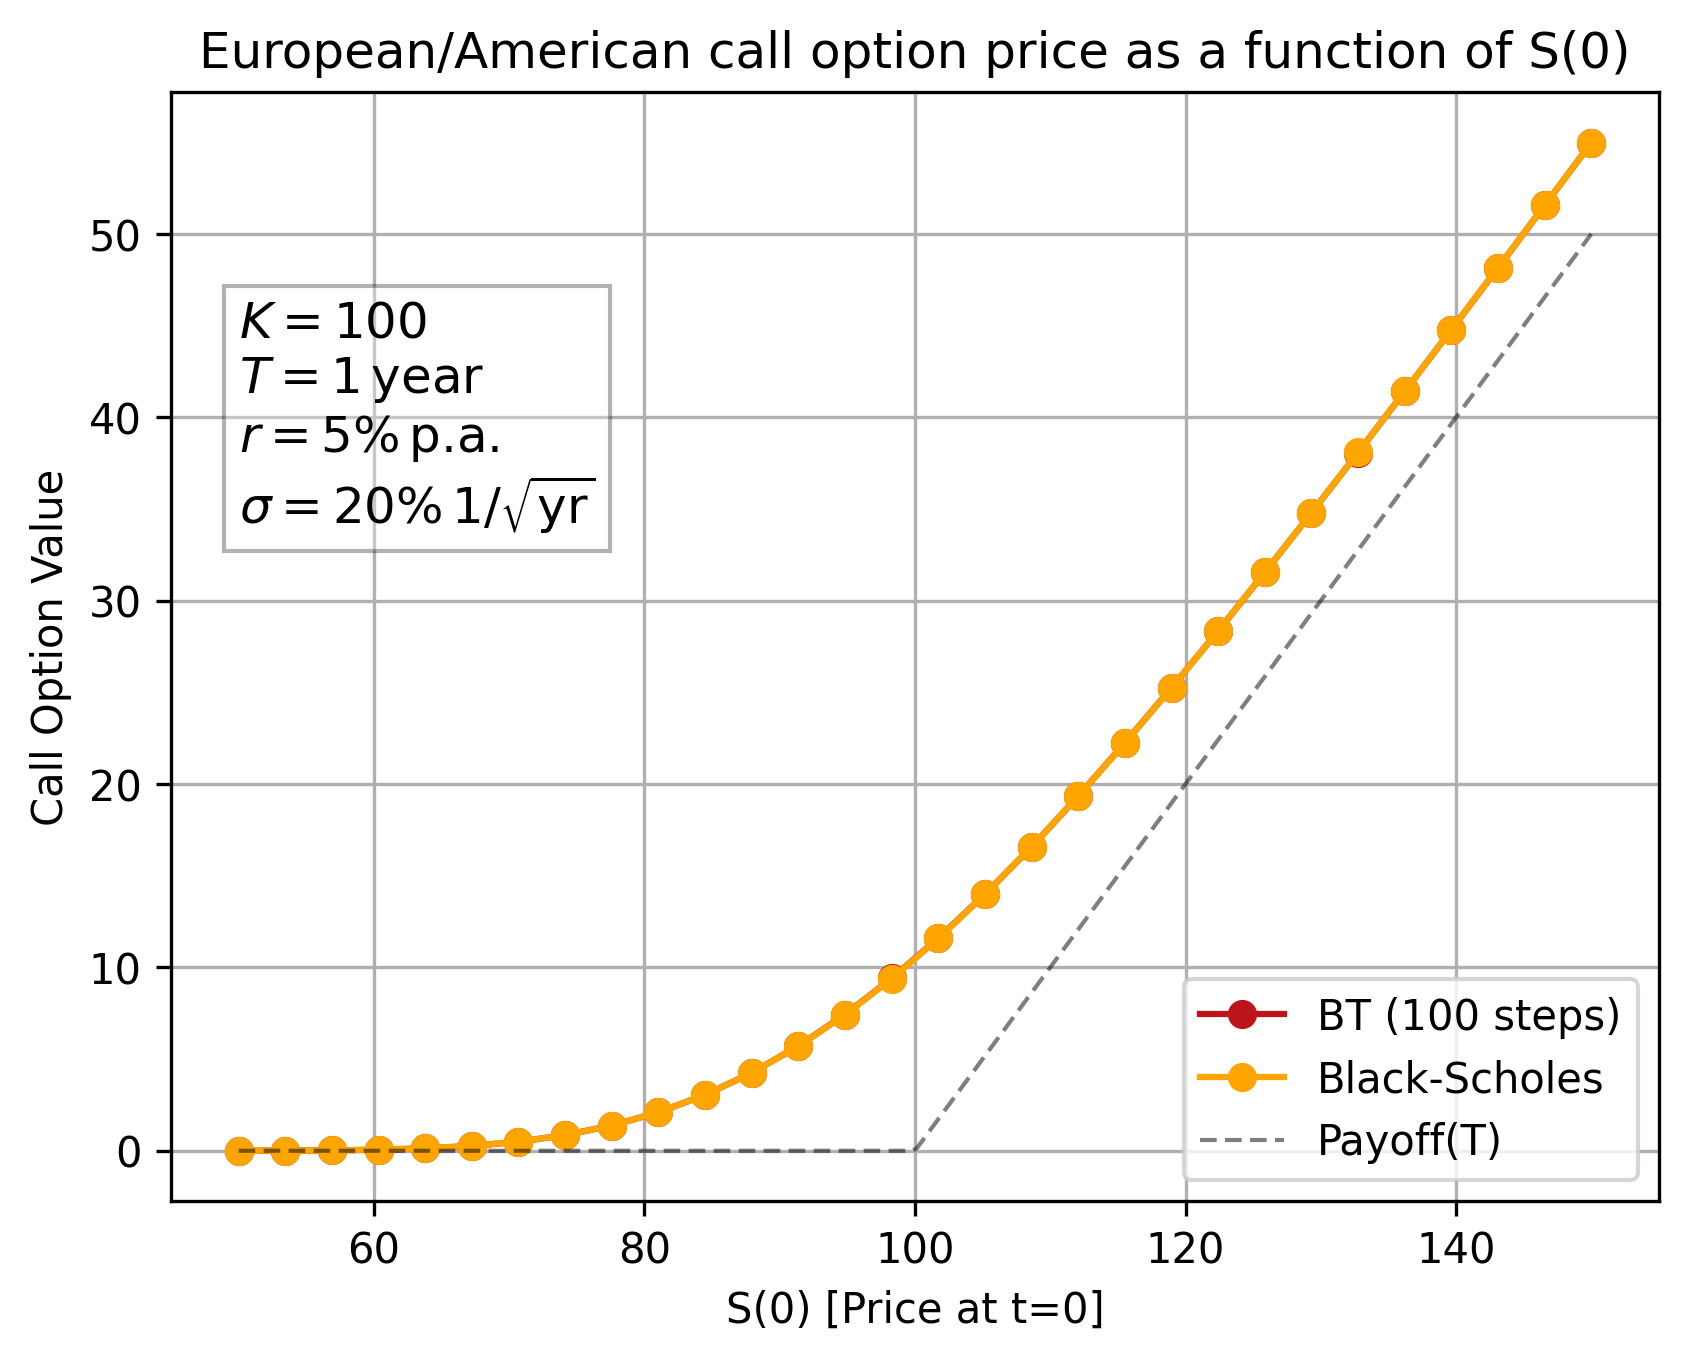
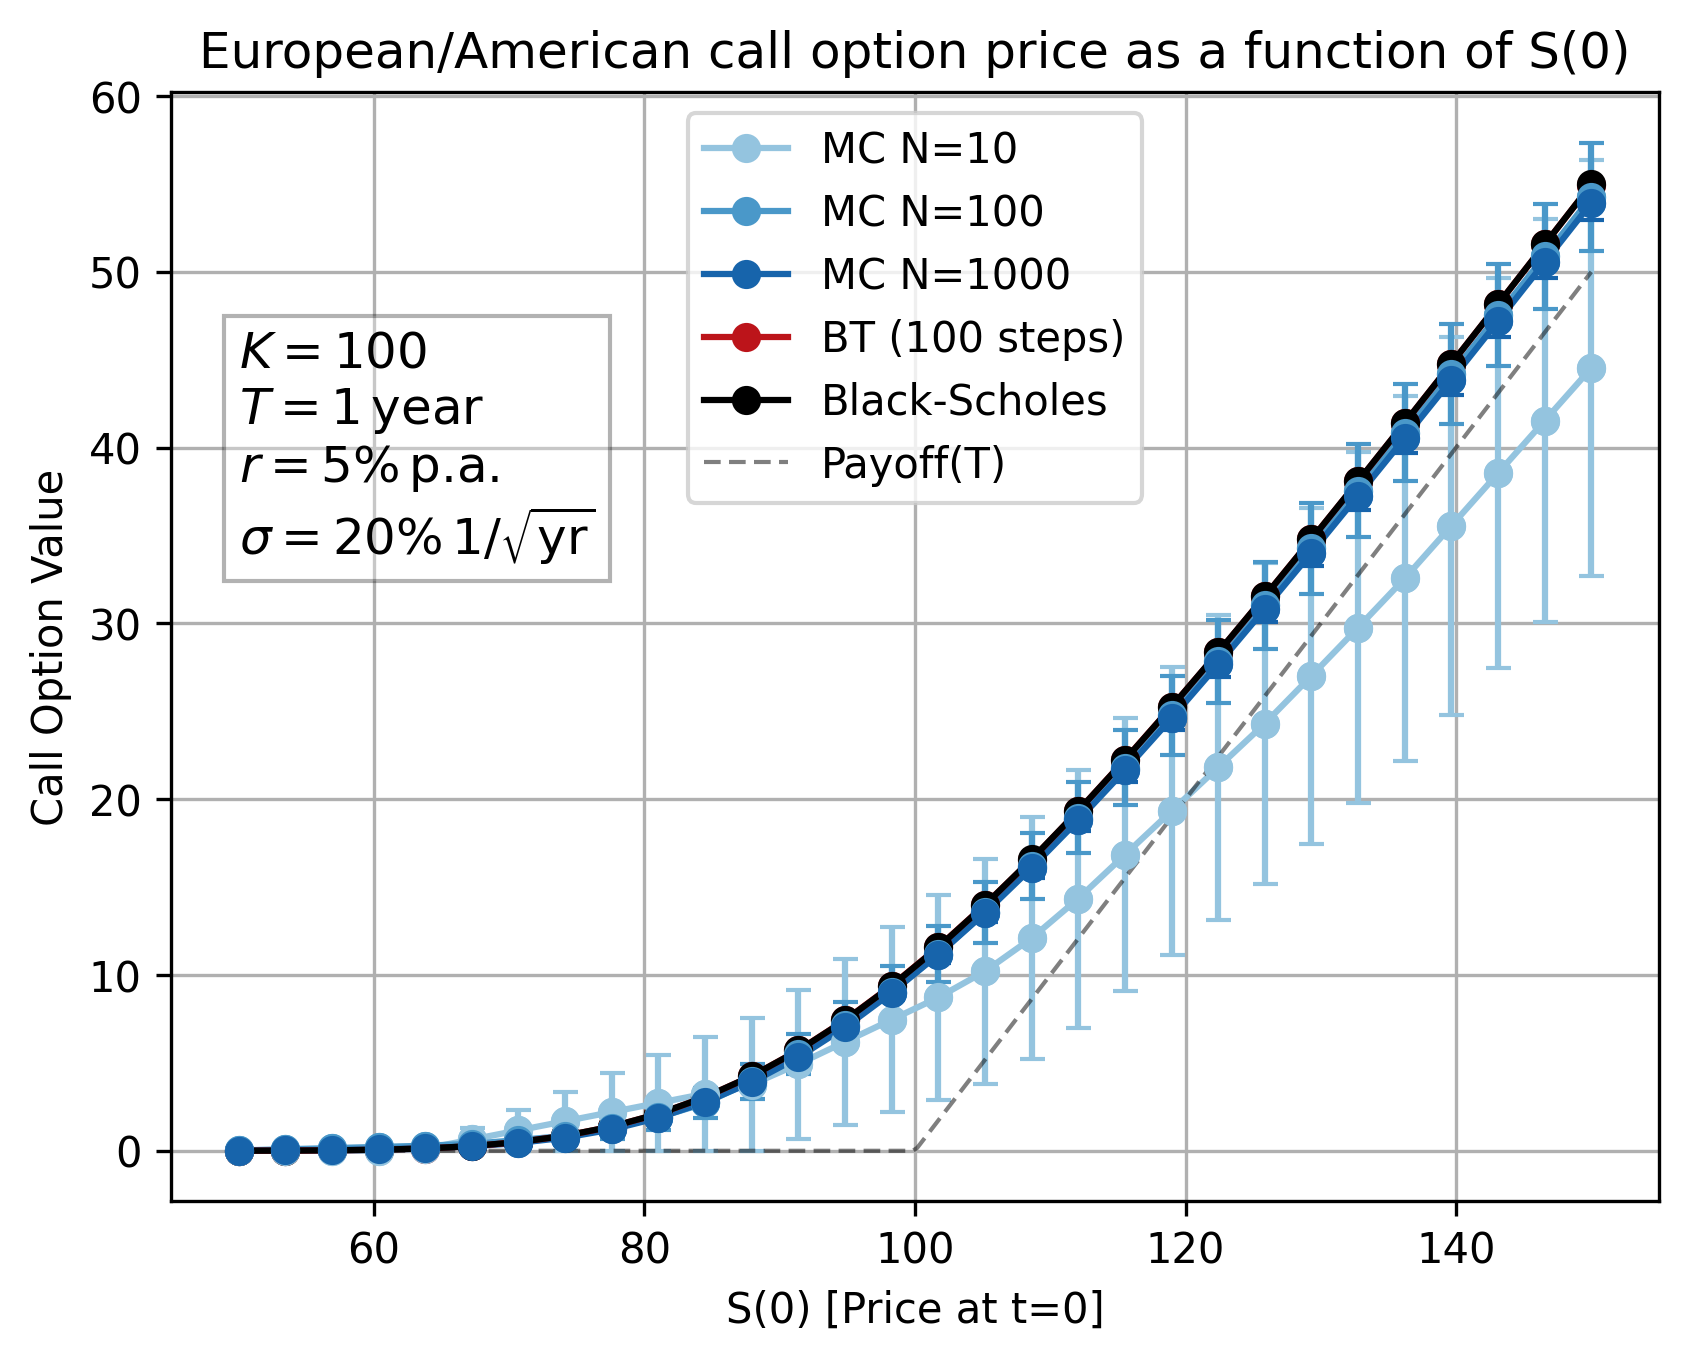
updated option pricing

diff --git a/src/.ipynb_checkpoints/monte_carlo-checkpoint.py b/src/.ipynb_checkpoints/monte_carlo-checkpoint.py
@@ -1,0 +1,131 @@
+import numpy as np
+
+# Single-step geometric Brownian motion
+
+def GBM_single(S0, mu, sigma, dt):
+    """
+    Simulate a single step of geometric Brownian motion.
+
+    Parameters:
+        S0 (float): Initial asset price
+        mu (float): Expected return (drift)
+        sigma (float): Volatility
+        dt (float): Time increment
+
+    Returns:
+        float: Simulated asset price after one time step
+    """
+    Z = np.random.normal()
+    S1 = S0 * np.exp((mu - 0.5 * sigma**2) * dt + sigma * np.sqrt(dt) * Z)
+    return S1
+
+def GBM_time_series(S0, mu, sigma, T,dt):
+    n = int(T/dt)
+    prices = [S0]
+    for i in range(n):
+        t = i*dt
+        drift = mu(t) if callable(mu) else mu
+        vol = sigma(t) if callable(sigma) else sigma
+        S_init = prices[-1]
+        S_next = GBM_single(S_init, drift, vol, dt)
+        prices.append(S_next)
+    return np.array(prices)
+
+def GBM_time_series_fast(S0, mu, sigma, T,dt,m):
+    n = int(round(T / dt))
+    logpaths = np.random.normal(size=(n,m))
+    times = np.arange(n) * dt  
+    sig = sigma(times) if callable(sigma) else sigma
+    muu = mu(times)     if callable(mu)     else mu
+    sig, muu = np.asarray(sig), np.asarray(muu)
+    logpaths *= sig * np.sqrt(dt)
+    logpaths += (muu - 0.5 * sig**2)*dt
+    prices = S0*np.exp(np.cumsum(logpaths,axis=0))
+
+    stocks = np.empty((n+1, m))
+    stocks[0, :] = S0
+    stocks[1:, :] =prices
+
+    time_grid = np.linspace(0, T, n+1)
+    return time_grid,stocks
+
+# def GBM_time_series_fast(S0, mu, sigma, T,dt):
+#     n = int(round(T / dt))
+#     paths = np.random.normal(size=n)
+#     times = np.arange(n) * dt  
+#     sig = sigma(times) if callable(sigma) else sigma
+#     muu = mu(times)     if callable(mu)     else mu
+#     sig, muu = np.asarray(sig), np.asarray(muu)
+#     paths *= sig * np.sqrt(dt)
+#     paths += (muu - 0.5 * sig**2)*dt
+
+#     stocks = np.concatenate([[S0],S0*np.exp(np.cumsum(paths))])
+#     return stocks
+
+def MC_price_fast(S0, r, sigma, T,dt,payoff,N):
+    if not callable(payoff):
+        print("Error: payoff needs to ba callable")
+        return None
+
+    timegrid, paths = GBM_time_series_fast(1, r, sigma, T,dt,N)
+    payoffs = payoff(np.outer(S0, paths[-1,:]))
+    mean = payoffs.mean(axis = 1)              # or np.mean(arr)
+    std = payoffs.std(axis = 1,ddof=1)
+
+    if not callable(r):
+        disc = np.exp(-r*T)
+    else:
+        tgrid = np.arange(0, T+dt, dt)
+        integral_r = np.trapzoid(r(tgrid), dx=dt)
+        disc = np.exp(-integral_r)
+    
+    price = disc * mean
+    stderr = disc * std/np.sqrt(N)
+    if np.ndim(S0) == 0:
+        return float(price), float(stderr)
+    return price, stderr
+
+
+def MC_price(S0, r, sigma, T,dt,payoff,N):
+    if not callable(payoff):
+        print("Error: payoff needs to ba callable")
+        return None
+    if not callable(r) and not callable(sigma):
+        return MC_price_consts(S0, r, sigma, T,payoff,N)
+    res=[]
+    for i in range(N):
+        S = GBM_time_series(S0, r, sigma, T,dt)
+        res.append(payoff(S[-1]))
+    mean = res.mean()              # or np.mean(arr)
+    std = res.std(ddof=1)    
+    if not callable(r):
+        result = np.exp(-r*T)*mean
+        error = std/np.sqrt(N)
+        return result, error
+    else:
+        # r is a function of time
+        integral_r = np.trapzoid([r(t) for t in np.arange(0,T+dt,dt)], dx=dt)
+        result = np.exp(-integral_r)*mean
+        error = std/np.sqrt(N)
+        return result, error
+    
+    
+def MC_price_consts(S0, r, sigma, T,payoff,N):
+    # This can be used the validate Black-Scholes 
+    if not callable(payoff):
+        print("Error: payoff needs to ba callable")
+        return None
+    res=[]
+    for i in range(N):
+        S = GBM_single(S0, r, sigma, T)
+        res.append(np.exp(-r*T)*payoff(S))
+    res = np.array(res)
+
+    mean = res.mean()              # or np.mean(arr)
+    std = res.std(ddof=1)    
+
+    return mean, std/np.sqrt(N)
+        
+
+
+    
